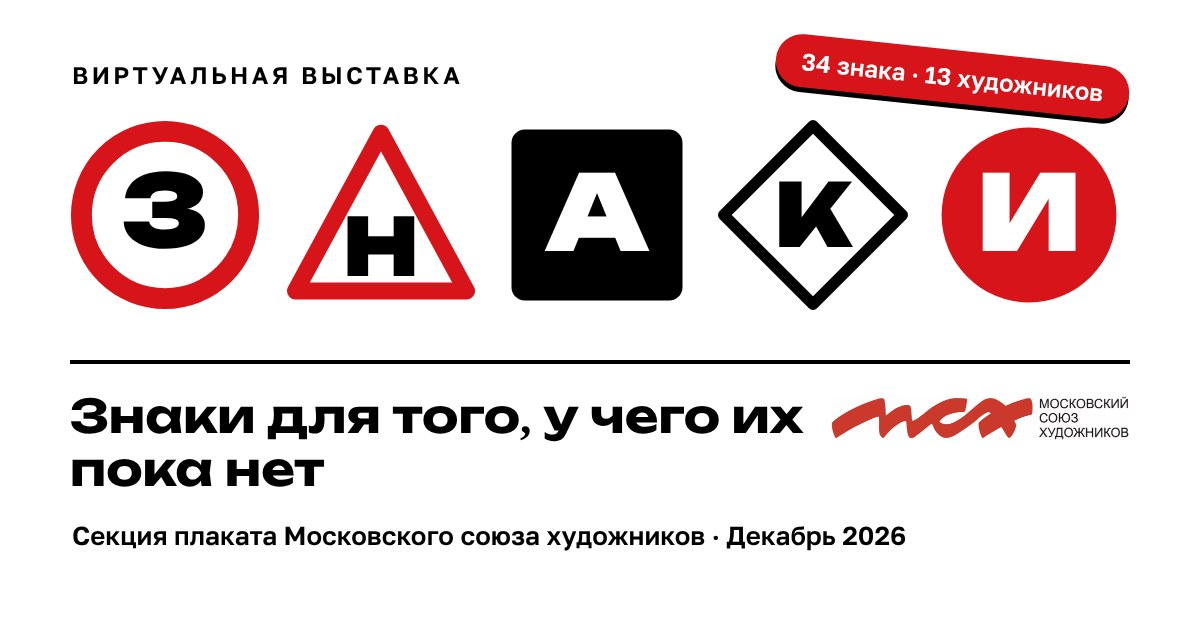
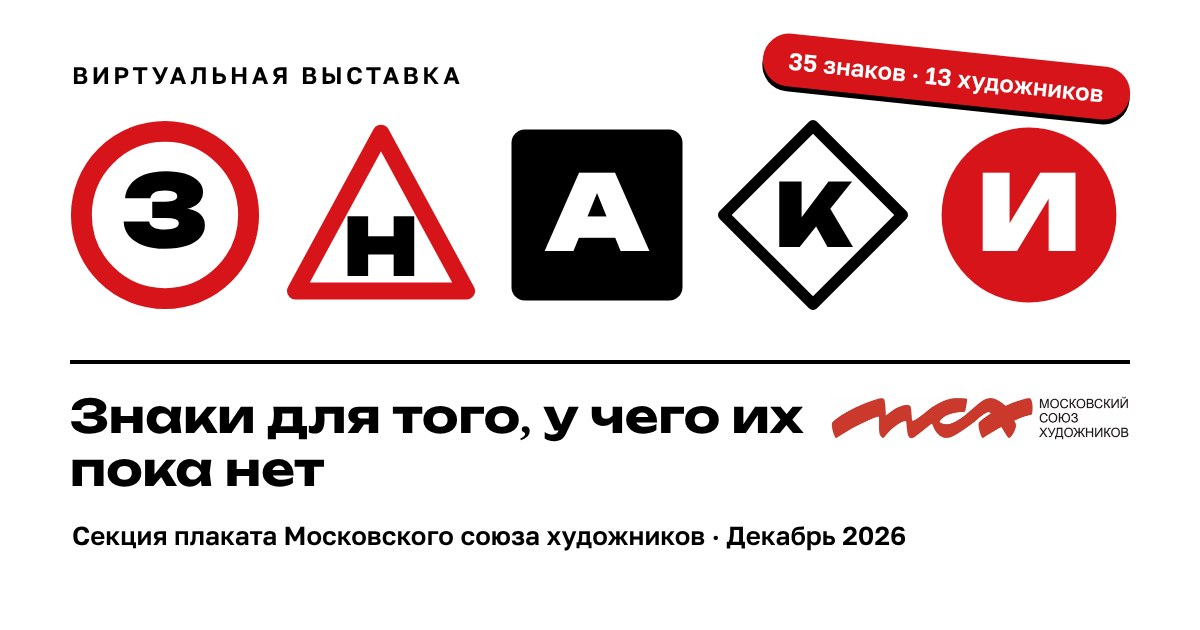
Константин Гераймович: знак «Контакт»; 35 знаков
Claude-Session: https://claude.ai/code/session_01S9CicmAcKAiNnH2g9BqGnH

Changed region(s): [[0.6167, 0.0302, 0.9558, 0.2111], [0.8017, 0.0603, 0.8325, 0.0905]]

diff --git a/index.html b/index.html
@@ -189,6 +189,9 @@
      "@id": "https://nazarovbruni.github.io/znaki/#znak-18"
     },
     {
+     "@id": "https://nazarovbruni.github.io/znaki/#znak-19"
+    },
+    {
      "@id": "https://nazarovbruni.github.io/znaki/#digital"
     },
     {
@@ -782,6 +785,25 @@
     "https://nazarovbruni.github.io/znaki/img/works/geraymovich-konstantin-kolskaya-aes-moskovskiy-soyuz-khudozhnikov.jpg"
    ],
    "description": "Энергию, которую нельзя увидеть. Три жёстких бруса складываются в треугольник и одновременно в букву «А» — атом. Внутри растровый круг: тысячи точек, как стержни реактора, держат в себе огромную силу, а стальной контур не выпускает её наружу. Знак изображает не здание станции, а её суть: мощь, заключённую в порядок."
+  },
+  {
+   "@type": "VisualArtwork",
+   "@id": "https://nazarovbruni.github.io/znaki/#znak-19",
+   "name": "Знак «Контакт»",
+   "url": "https://nazarovbruni.github.io/znaki/#znak-19",
+   "creator": {
+    "@id": "https://nazarovbruni.github.io/znaki/#artist-12"
+   },
+   "artform": "Плакат",
+   "inLanguage": "ru",
+   "isPartOf": {
+    "@id": "https://nazarovbruni.github.io/znaki/#exhibition"
+   },
+   "image": [
+    "https://nazarovbruni.github.io/znaki/img/works/geraymovich-konstantin-kontakt-moskovskiy-soyuz-khudozhnikov-card.jpg",
+    "https://nazarovbruni.github.io/znaki/img/works/geraymovich-konstantin-kontakt-moskovskiy-soyuz-khudozhnikov.jpg"
+   ],
+   "description": "Встречу двух противоположностей. Две капли входят друг в друга и вместе складываются в ромб, а между ними остаётся белая волна — линия касания. В цвете фигуры были пурпурной и синей: горячее и холодное, пламя и лёд. Одна — фирма, другая — заказчик: разные по природе, они держатся только вместе."
   },
   {
    "@type": "CreativeWorkSeries",
@@ -1813,7 +1835,7 @@ dialog::backdrop { background: rgba(0,0,0,.72); }
 <main id="top">
   <div class="spacer" aria-hidden="true"></div>
   <div class="hero wrap">
-    <span class="sticker s1 pop" style="--d:700ms">34 знака · 13 художников</span>
+    <span class="sticker s1 pop" style="--d:700ms">35 знаков · 13 художников</span>
     <span class="sticker sticker--ink s2 pop" style="--d:950ms">Секция плаката МСХ</span>
     <p class="label hero__eyebrow">Виртуальная выставка</p>
     <h1 class="signs"><span class="sr-only">ЗНАКИ — виртуальная выставка Секции плаката Московского союза художников (МОСХ), куратор Юлия Назар</span>
@@ -2067,10 +2089,21 @@ dialog::backdrop { background: rgba(0,0,0,.72); }
       </div>
     </button>
   </li>
-  <li class="card reveal card--series" id="znak-19" style="--d:0ms">
+  <li class="card reveal" id="znak-19" style="--d:0ms">
+    <button type="button" data-work="18" aria-label="Открыть: Знак «Контакт», Константин Гераймович">
+      <div class="plate  plate--white plate--fill">
+        <span class="plate__no">№ 19</span><picture><source type="image/webp" srcset="img/works/geraymovich-konstantin-kontakt-moskovskiy-soyuz-khudozhnikov-card-800.webp 800w, img/works/geraymovich-konstantin-kontakt-moskovskiy-soyuz-khudozhnikov-card.webp 1200w" sizes="(max-width: 620px) 100vw, (max-width: 960px) 50vw, 400px"><img src="img/works/geraymovich-konstantin-kontakt-moskovskiy-soyuz-khudozhnikov-card.jpg" alt="Знак «Контакт», Константин Гераймович, Московский союз художников" loading="lazy" width="1200" height="1200"></picture><span class="plate__open" aria-hidden="true">Открыть <b>+</b></span>
+      </div>
+      <div class="card__cap">
+        <span class="card__title">Знак «Контакт»</span>
+        <span class="card__author">Константин Гераймович</span><span class="card__hint">Что означает знак · фото оригинала →</span>
+      </div>
+    </button>
+  </li>
+  <li class="card reveal card--series" id="znak-20" style="--d:120ms">
     <a class="card__link" href="#digital" aria-label="Серия знаков «Знаки цифрового антропогенеза», Юрий Мамчур: 5 знаков">
       <div class="plate  plate--white plate--fill">
-        <span class="plate__no">№ 19</span><picture><source type="image/webp" srcset="img/works/mamchur-yuriy-znaki-tsifrovogo-antropogeneza-seriya-moskovskiy-soyuz-khudozhnikov-800.webp 800w, img/works/mamchur-yuriy-znaki-tsifrovogo-antropogeneza-seriya-moskovskiy-soyuz-khudozhnikov-1400.webp 1400w, img/works/mamchur-yuriy-znaki-tsifrovogo-antropogeneza-seriya-moskovskiy-soyuz-khudozhnikov.webp 2000w" sizes="(max-width: 620px) 100vw, (max-width: 960px) 50vw, 400px"><img src="img/works/mamchur-yuriy-znaki-tsifrovogo-antropogeneza-seriya-moskovskiy-soyuz-khudozhnikov.jpg" alt="Знак «Знаки цифрового антропогенеза», Юрий Мамчур, Московский союз художников" loading="lazy" width="2000" height="520"></picture>
+        <span class="plate__no">№ 20</span><picture><source type="image/webp" srcset="img/works/mamchur-yuriy-znaki-tsifrovogo-antropogeneza-seriya-moskovskiy-soyuz-khudozhnikov-800.webp 800w, img/works/mamchur-yuriy-znaki-tsifrovogo-antropogeneza-seriya-moskovskiy-soyuz-khudozhnikov-1400.webp 1400w, img/works/mamchur-yuriy-znaki-tsifrovogo-antropogeneza-seriya-moskovskiy-soyuz-khudozhnikov.webp 2000w" sizes="(max-width: 620px) 100vw, (max-width: 960px) 50vw, 400px"><img src="img/works/mamchur-yuriy-znaki-tsifrovogo-antropogeneza-seriya-moskovskiy-soyuz-khudozhnikov.jpg" alt="Знак «Знаки цифрового антропогенеза», Юрий Мамчур, Московский союз художников" loading="lazy" width="2000" height="520"></picture>
       </div>
       <div class="card__cap">
         <span class="card__title">Серия знаков «Знаки цифрового антропогенеза»</span>
@@ -2078,10 +2111,10 @@ dialog::backdrop { background: rgba(0,0,0,.72); }
       </div>
     </a>
   </li>
-  <li class="card reveal card--series" id="znak-20" style="--d:120ms">
+  <li class="card reveal card--series" id="znak-21" style="--d:240ms">
     <a class="card__link" href="bukhei.html" aria-label="Спецпроект «Бухейпроект», БУ ХЕЕВЫ (Сергей Булкин и Евгения Михеева): 16 знаков">
       <div class="plate  plate--white plate--fill">
-        <span class="plate__no">№ 20</span><picture><source type="image/webp" srcset="img/works/bukheevy-bulkin-mikheeva-bukheyproekt-seriya-moskovskiy-soyuz-khudozhnikov-800.webp 800w, img/works/bukheevy-bulkin-mikheeva-bukheyproekt-seriya-moskovskiy-soyuz-khudozhnikov-1400.webp 1400w, img/works/bukheevy-bulkin-mikheeva-bukheyproekt-seriya-moskovskiy-soyuz-khudozhnikov.webp 2000w" sizes="(max-width: 620px) 45vw, (max-width: 960px) 30vw, 220px"><img src="img/works/bukheevy-bulkin-mikheeva-bukheyproekt-seriya-moskovskiy-soyuz-khudozhnikov.jpg" alt="Знак «Бухейпроект», БУ ХЕЕВЫ (Сергей Булкин и Евгения Михеева), Московский союз художников" loading="lazy" width="2000" height="480"></picture>
+        <span class="plate__no">№ 21</span><picture><source type="image/webp" srcset="img/works/bukheevy-bulkin-mikheeva-bukheyproekt-seriya-moskovskiy-soyuz-khudozhnikov-800.webp 800w, img/works/bukheevy-bulkin-mikheeva-bukheyproekt-seriya-moskovskiy-soyuz-khudozhnikov-1400.webp 1400w, img/works/bukheevy-bulkin-mikheeva-bukheyproekt-seriya-moskovskiy-soyuz-khudozhnikov.webp 2000w" sizes="(max-width: 620px) 45vw, (max-width: 960px) 30vw, 220px"><img src="img/works/bukheevy-bulkin-mikheeva-bukheyproekt-seriya-moskovskiy-soyuz-khudozhnikov.jpg" alt="Знак «Бухейпроект», БУ ХЕЕВЫ (Сергей Булкин и Евгения Михеева), Московский союз художников" loading="lazy" width="2000" height="480"></picture>
       </div>
       <div class="card__cap">
         <span class="card__title">Спецпроект «Бухейпроект» · 16 знаков</span>
@@ -2382,7 +2415,7 @@ dialog::backdrop { background: rgba(0,0,0,.72); }
   <div class="wrap">
     <div class="call">
       <h2 class="call__title">Художники Секции плаката, <span>присоединяйтесь!</span></h2>
-      <p class="call__sub">Знак <span>№&nbsp;35</span> ждёт своего автора.</p>
+      <p class="call__sub">Знак <span>№&nbsp;36</span> ждёт своего автора.</p>
       <p class="call__text">Словарь открыт и пополняется. Если вы видите то, у&nbsp;чего ещё нет обозначения, — нарисуйте для этого знак. Пришлите работу, её название и пару строк о&nbsp;том, что она обозначает, и&nbsp;мы добавим её в&nbsp;экспозицию.</p>
       <a class="cta call__btn" href="mailto:gallery@glubinagallery.ru?subject=%D0%97%D0%BD%D0%B0%D0%BA%20%D0%B4%D0%BB%D1%8F%20%D0%B2%D1%8B%D1%81%D1%82%D0%B0%D0%B2%D0%BA%D0%B8%20%C2%AB%D0%97%D0%9D%D0%90%D0%9A%D0%98%C2%BB"><b aria-hidden="true">→</b>Предложить свой знак</a>
     </div>
@@ -2466,6 +2499,9 @@ const WORKS = [
   { t: 'Кольская АЭС', a: 'Константин Гераймович', img: 'img/works/geraymovich-konstantin-kolskaya-aes-moskovskiy-soyuz-khudozhnikov.jpg', card: 'img/works/geraymovich-konstantin-kolskaya-aes-moskovskiy-soyuz-khudozhnikov-card.jpg', white: true, fill: true,
     means: 'Энергию, которую нельзя увидеть. Три жёстких бруса складываются в треугольник и одновременно в букву «А» — атом. Внутри растровый круг: тысячи точек, как стержни реактора, держат в себе огромную силу, а стальной контур не выпускает её наружу. Знак изображает не здание станции, а её суть: мощь, заключённую в порядок.',
     why: 'Чтобы грандиозное сооружение за Полярным кругом, на Кольском полуострове, можно было узнать одним взглядом. Работу атомной станции невозможно показать — её можно только обозначить. Знак делает видимым то, что скрыто за бетоном: укрощённую энергию и конструкцию, которая её удерживает.' },
+  { t: 'Контакт', a: 'Константин Гераймович', img: 'img/works/geraymovich-konstantin-kontakt-moskovskiy-soyuz-khudozhnikov.jpg', card: 'img/works/geraymovich-konstantin-kontakt-moskovskiy-soyuz-khudozhnikov-card.jpg', white: true, fill: true,
+    means: 'Встречу двух противоположностей. Две капли входят друг в друга и вместе складываются в ромб, а между ними остаётся белая волна — линия касания. В цвете фигуры были пурпурной и синей: горячее и холодное, пламя и лёд. Одна — фирма, другая — заказчик: разные по природе, они держатся только вместе.',
+    why: 'Конец 1980-х, первые частные риелторы, и слово «контакт» звучит как обещание. Знак сделан для фирмы, которая всегда на связи с клиентом, но говорит о большем: о доверии, которое возникает, когда противоположности находят общую форму.' },
   { t: 'Знаки цифрового антропогенеза', href: '#digital', a: 'Юрий Мамчур', img: 'img/works/mamchur-yuriy-znaki-tsifrovogo-antropogeneza-seriya-moskovskiy-soyuz-khudozhnikov.jpg', white: true, fill: true, series: 5 },
   { t: 'Бухейпроект', href: 'bukhei.html', label: 'Постероконцептуализм', a: 'БУ ХЕЕВЫ (Сергей Булкин и Евгения Михеева)', img: 'img/works/bukheevy-bulkin-mikheeva-bukheyproekt-seriya-moskovskiy-soyuz-khudozhnikov.jpg', white: true, fill: true, series: 16 },
   // Пояснения авторов: добавьте поля means: '...' и why: '...'
@@ -2653,7 +2689,7 @@ if (worksEl && !worksEl.children.length) worksEl.innerHTML = WORKS.map((w, i) =>
   </li>`).join('');
 (function () {
   const n = WORKS.filter((w) => !w.series).length;
-  if (!worksEl || !(n % 3) || worksEl.querySelector('.card--join')) return;
+  if (!worksEl || n % 3 !== 2 || worksEl.querySelector('.card--join')) return;
   const li = document.createElement('li');
   li.className = 'card card--join reveal';
   li.innerHTML = `<a class="card__link" href="#contacts" aria-label="Предложите свой знак">

diff --git a/_src/site/index.html b/_src/site/index.html
@@ -736,7 +736,7 @@ dialog::backdrop { background: rgba(0,0,0,.72); }
   <div class="spacer" aria-hidden="true"></div>
 <!--MAIN-->
   <div class="hero wrap">
-    <span class="sticker s1 pop" style="--d:700ms">34 знака · 13 художников</span>
+    <span class="sticker s1 pop" style="--d:700ms">35 знаков · 13 художников</span>
     <span class="sticker sticker--ink s2 pop" style="--d:950ms">Секция плаката МСХ</span>
     <p class="label hero__eyebrow">Виртуальная выставка</p>
     <h1 class="signs"><span class="sr-only">ЗНАКИ — виртуальная выставка Секции плаката Московского союза художников (МОСХ), куратор Юлия Назар</span>
@@ -1004,7 +1004,7 @@ dialog::backdrop { background: rgba(0,0,0,.72); }
   <div class="wrap">
     <div class="call">
       <h2 class="call__title">Художники Секции плаката, <span>присоединяйтесь!</span></h2>
-      <p class="call__sub">Знак <span>№&nbsp;35</span> ждёт своего автора.</p>
+      <p class="call__sub">Знак <span>№&nbsp;36</span> ждёт своего автора.</p>
       <p class="call__text">Словарь открыт и пополняется. Если вы видите то, у&nbsp;чего ещё нет обозначения, — нарисуйте для этого знак. Пришлите работу, её название и пару строк о&nbsp;том, что она обозначает, и&nbsp;мы добавим её в&nbsp;экспозицию.</p>
       <a class="cta call__btn" href="mailto:gallery@glubinagallery.ru?subject=%D0%97%D0%BD%D0%B0%D0%BA%20%D0%B4%D0%BB%D1%8F%20%D0%B2%D1%8B%D1%81%D1%82%D0%B0%D0%B2%D0%BA%D0%B8%20%C2%AB%D0%97%D0%9D%D0%90%D0%9A%D0%98%C2%BB"><b aria-hidden="true">→</b>Предложить свой знак</a>
     </div>
@@ -1088,6 +1088,9 @@ const WORKS = [
   { t: 'Кольская АЭС', a: 'Константин Гераймович', img: 'img/works/geraymovich-konstantin-kolskaya-aes-moskovskiy-soyuz-khudozhnikov.jpg', card: 'img/works/geraymovich-konstantin-kolskaya-aes-moskovskiy-soyuz-khudozhnikov-card.jpg', white: true, fill: true,
     means: 'Энергию, которую нельзя увидеть. Три жёстких бруса складываются в треугольник и одновременно в букву «А» — атом. Внутри растровый круг: тысячи точек, как стержни реактора, держат в себе огромную силу, а стальной контур не выпускает её наружу. Знак изображает не здание станции, а её суть: мощь, заключённую в порядок.',
     why: 'Чтобы грандиозное сооружение за Полярным кругом, на Кольском полуострове, можно было узнать одним взглядом. Работу атомной станции невозможно показать — её можно только обозначить. Знак делает видимым то, что скрыто за бетоном: укрощённую энергию и конструкцию, которая её удерживает.' },
+  { t: 'Контакт', a: 'Константин Гераймович', img: 'img/works/geraymovich-konstantin-kontakt-moskovskiy-soyuz-khudozhnikov.jpg', card: 'img/works/geraymovich-konstantin-kontakt-moskovskiy-soyuz-khudozhnikov-card.jpg', white: true, fill: true,
+    means: 'Встречу двух противоположностей. Две капли входят друг в друга и вместе складываются в ромб, а между ними остаётся белая волна — линия касания. В цвете фигуры были пурпурной и синей: горячее и холодное, пламя и лёд. Одна — фирма, другая — заказчик: разные по природе, они держатся только вместе.',
+    why: 'Конец 1980-х, первые частные риелторы, и слово «контакт» звучит как обещание. Знак сделан для фирмы, которая всегда на связи с клиентом, но говорит о большем: о доверии, которое возникает, когда противоположности находят общую форму.' },
   { t: 'Знаки цифрового антропогенеза', href: '#digital', a: 'Юрий Мамчур', img: 'img/works/mamchur-yuriy-znaki-tsifrovogo-antropogeneza-seriya-moskovskiy-soyuz-khudozhnikov.jpg', white: true, fill: true, series: 5 },
   { t: 'Бухейпроект', href: 'bukhei.html', label: 'Постероконцептуализм', a: 'БУ ХЕЕВЫ (Сергей Булкин и Евгения Михеева)', img: 'img/works/bukheevy-bulkin-mikheeva-bukheyproekt-seriya-moskovskiy-soyuz-khudozhnikov.jpg', white: true, fill: true, series: 16 },
   // Пояснения авторов: добавьте поля means: '...' и why: '...'
@@ -1275,7 +1278,7 @@ if (worksEl && !worksEl.children.length) worksEl.innerHTML = WORKS.map((w, i) =>
   </li>`).join('');
 (function () {
   const n = WORKS.filter((w) => !w.series).length;
-  if (!worksEl || !(n % 3) || worksEl.querySelector('.card--join')) return;
+  if (!worksEl || n % 3 !== 2 || worksEl.querySelector('.card--join')) return;
   const li = document.createElement('li');
   li.className = 'card card--join reveal';
   li.innerHTML = `<a class="card__link" href="#contacts" aria-label="Предложите свой знак">

diff --git a/bukhei.html b/bukhei.html
@@ -1214,7 +1214,7 @@ dialog::backdrop { background: rgba(0,0,0,.72); }
   <div class="wrap">
     <div class="call">
       <h2 class="call__title">Художники Секции плаката, <span>присоединяйтесь!</span></h2>
-      <p class="call__sub">Знак <span>№&nbsp;35</span> ждёт своего автора.</p>
+      <p class="call__sub">Знак <span>№&nbsp;36</span> ждёт своего автора.</p>
       <p class="call__text">Словарь открыт и пополняется. Если вы видите то, у&nbsp;чего ещё нет обозначения, — нарисуйте для этого знак. Пришлите работу, её название и пару строк о&nbsp;том, что она обозначает, и&nbsp;мы добавим её в&nbsp;экспозицию.</p>
       <a class="cta call__btn" href="mailto:gallery@glubinagallery.ru?subject=%D0%97%D0%BD%D0%B0%D0%BA%20%D0%B4%D0%BB%D1%8F%20%D0%B2%D1%8B%D1%81%D1%82%D0%B0%D0%B2%D0%BA%D0%B8%20%C2%AB%D0%97%D0%9D%D0%90%D0%9A%D0%98%C2%BB"><b aria-hidden="true">→</b>Предложить свой знак</a>
     </div>
@@ -1298,6 +1298,9 @@ const WORKS = [
   { t: 'Кольская АЭС', a: 'Константин Гераймович', img: 'img/works/geraymovich-konstantin-kolskaya-aes-moskovskiy-soyuz-khudozhnikov.jpg', card: 'img/works/geraymovich-konstantin-kolskaya-aes-moskovskiy-soyuz-khudozhnikov-card.jpg', white: true, fill: true,
     means: 'Энергию, которую нельзя увидеть. Три жёстких бруса складываются в треугольник и одновременно в букву «А» — атом. Внутри растровый круг: тысячи точек, как стержни реактора, держат в себе огромную силу, а стальной контур не выпускает её наружу. Знак изображает не здание станции, а её суть: мощь, заключённую в порядок.',
     why: 'Чтобы грандиозное сооружение за Полярным кругом, на Кольском полуострове, можно было узнать одним взглядом. Работу атомной станции невозможно показать — её можно только обозначить. Знак делает видимым то, что скрыто за бетоном: укрощённую энергию и конструкцию, которая её удерживает.' },
+  { t: 'Контакт', a: 'Константин Гераймович', img: 'img/works/geraymovich-konstantin-kontakt-moskovskiy-soyuz-khudozhnikov.jpg', card: 'img/works/geraymovich-konstantin-kontakt-moskovskiy-soyuz-khudozhnikov-card.jpg', white: true, fill: true,
+    means: 'Встречу двух противоположностей. Две капли входят друг в друга и вместе складываются в ромб, а между ними остаётся белая волна — линия касания. В цвете фигуры были пурпурной и синей: горячее и холодное, пламя и лёд. Одна — фирма, другая — заказчик: разные по природе, они держатся только вместе.',
+    why: 'Конец 1980-х, первые частные риелторы, и слово «контакт» звучит как обещание. Знак сделан для фирмы, которая всегда на связи с клиентом, но говорит о большем: о доверии, которое возникает, когда противоположности находят общую форму.' },
   { t: 'Знаки цифрового антропогенеза', href: '#digital', a: 'Юрий Мамчур', img: 'img/works/mamchur-yuriy-znaki-tsifrovogo-antropogeneza-seriya-moskovskiy-soyuz-khudozhnikov.jpg', white: true, fill: true, series: 5 },
   { t: 'Бухейпроект', href: 'bukhei.html', label: 'Постероконцептуализм', a: 'БУ ХЕЕВЫ (Сергей Булкин и Евгения Михеева)', img: 'img/works/bukheevy-bulkin-mikheeva-bukheyproekt-seriya-moskovskiy-soyuz-khudozhnikov.jpg', white: true, fill: true, series: 16 },
   // Пояснения авторов: добавьте поля means: '...' и why: '...'
@@ -1485,7 +1488,7 @@ if (worksEl && !worksEl.children.length) worksEl.innerHTML = WORKS.map((w, i) =>
   </li>`).join('');
 (function () {
   const n = WORKS.filter((w) => !w.series).length;
-  if (!worksEl || !(n % 3) || worksEl.querySelector('.card--join')) return;
+  if (!worksEl || n % 3 !== 2 || worksEl.querySelector('.card--join')) return;
   const li = document.createElement('li');
   li.className = 'card card--join reveal';
   li.innerHTML = `<a class="card__link" href="#contacts" aria-label="Предложите свой знак">
